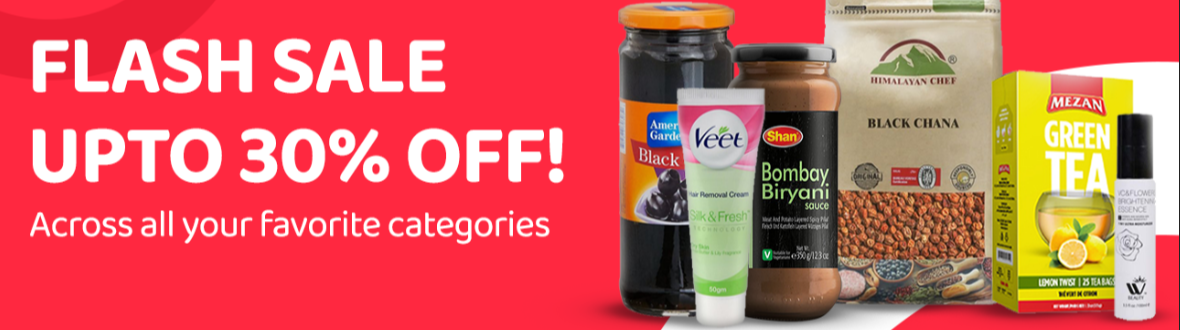
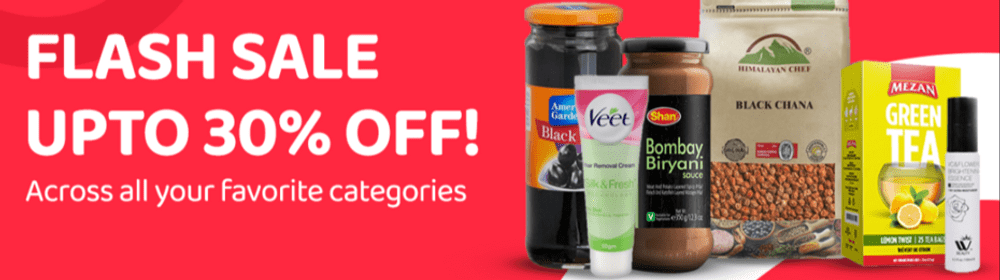
home page updated

diff --git a/wwwroot/css/layout.css b/wwwroot/css/layout.css
@@ -1,10 +1,35 @@
+.carousel-inner {
+    height: 260px !important;
+    width: 90% !important;
+    margin: auto;
+}
 
-    .carousel-inner {
-        height: 260px !important;
-        width: 90% !important;
-        margin: auto;
-      }
-  
-      .d-flex div {
-        margin-left: 1vw;
-      }
+.d-flex div {
+    margin-left: 1vw;
+}
+
+#bootstrap-overrides input{
+    width:50%;
+}
+
+@media only screen and (max-width: 1165px) {
+    #bootstrap-overrides input {
+        width: 40% !important;
+    }
+}
+
+@media only screen and (max-width: 991px) {
+    #bootstrap-overrides input {
+        width: 30% !important;
+    }
+}
+
+input:focus {
+    border: 4px solid black;
+}
+
+#dropdown {
+    border: 1px solid #adadf0;
+    border-radius: 13px;
+    box-sizing: border-box;
+}

diff --git a/wwwroot/css/index.css b/wwwroot/css/index.css
@@ -1,0 +1,8 @@
+.slideImg {
+    width: 100%;
+    height: auto;
+}
+
+.carousel-inner {
+    height:auto !important;
+}

diff --git a/Controllers/signupController.cs b/Controllers/signupController.cs
@@ -32,8 +32,6 @@ namespace dMart.Controllers
                 ModelState.AddModelError(string.Empty, "Please enter correct data");
             }
             return View();
-
-
         }
 
 
@@ -46,7 +44,6 @@ namespace dMart.Controllers
         [HttpPost]
         public IActionResult Login(users user)
         {
-
             if (userRepository.validateLogin(user))
             {
                 return RedirectToAction("Index", "Home");
